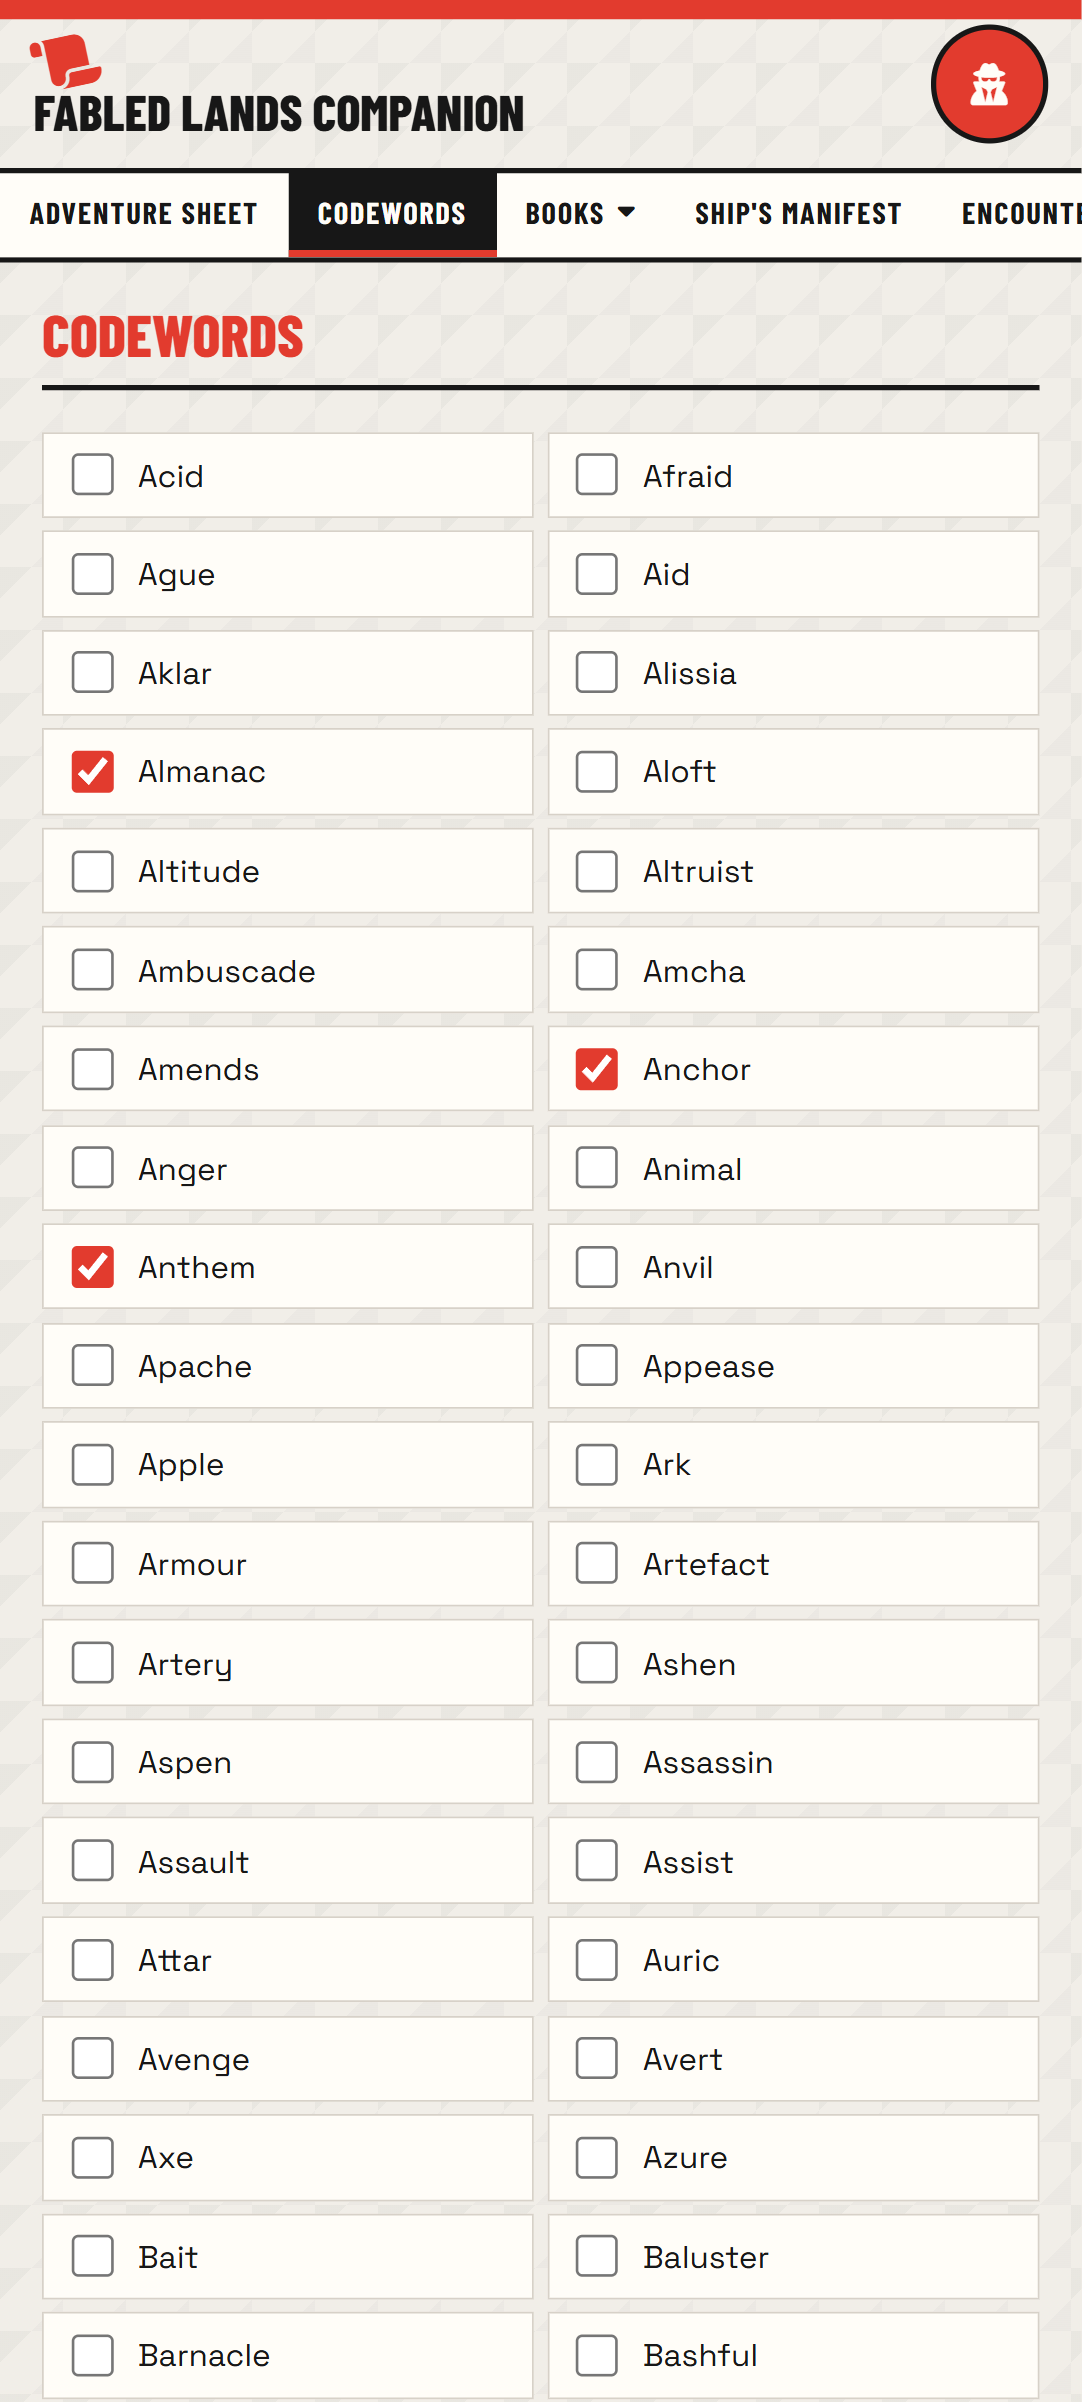
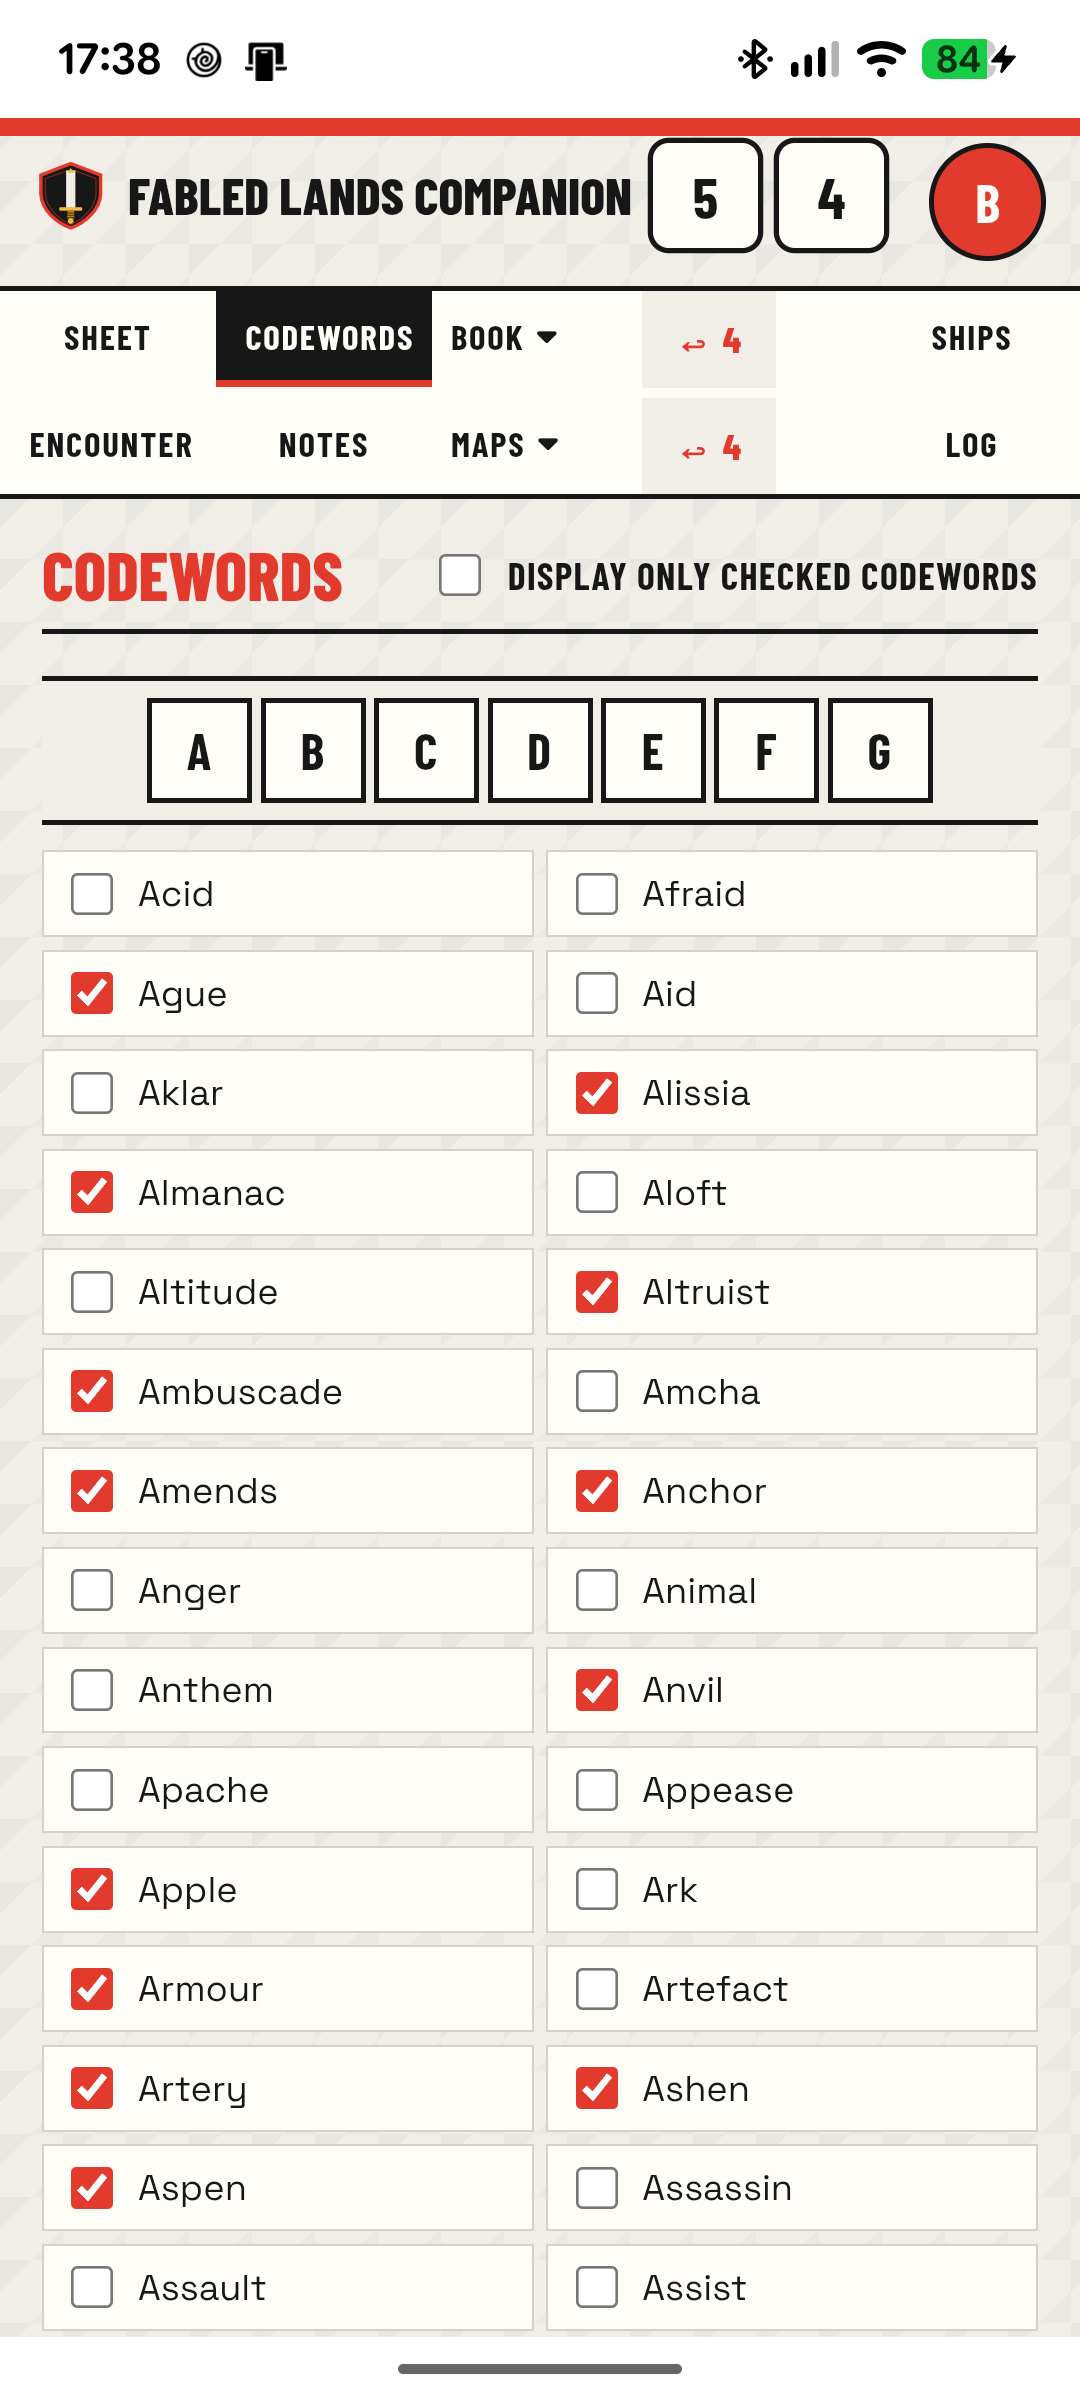
docs : captures d'ecran a jour avec donnees reelles (codewords + filtre actif, carte book 4, visionneuse plein ecran, paragraphes book 4, manifeste) + README

Changed region(s): [[0.0, 0.0, 1.0, 1.0], [0.9472, 0.9688, 1.0, 1.0]]

diff --git a/README.md b/README.md
@@ -67,6 +67,8 @@ All fields auto-save as you type.
 - Check a codeword when you learn it during your adventure.
 - Use the **"Display only checked codewords"** filter to hide everything you haven't found yet.
 
+![Display only checked codewords](screenshots/codewordscheck.png)
+
 ### Book Paragraphs
 
 ![Book Paragraphs](screenshots/book.png)
@@ -90,6 +92,9 @@ A quick-reference combat tracker with two side-by-side boxes:
 ![Maps](screenshots/map.png)
 
 - Tap a map to open the **fullscreen viewer**: a fixed backdrop, the map, and a single ✕ button.
+
+![Fullscreen map viewer](screenshots/mapfull.png)
+
 - **Zoom**: pinch with two fingers on mobile, mouse wheel / trackpad on desktop — zoom is anchored on the pinch midpoint or under the cursor.
 - **Pan**: drag with one finger or the mouse. The map is hard-bounded so it can **never leave the screen** — at least 48 px of the map always stays visible.
 - Close with the ✕, the `Esc` key, or a tap on the backdrop (drags never close it by accident).
